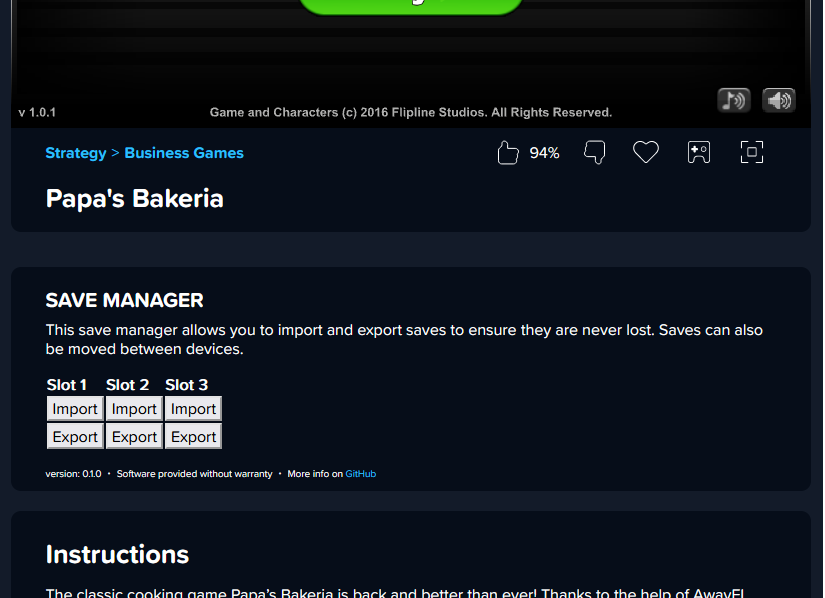
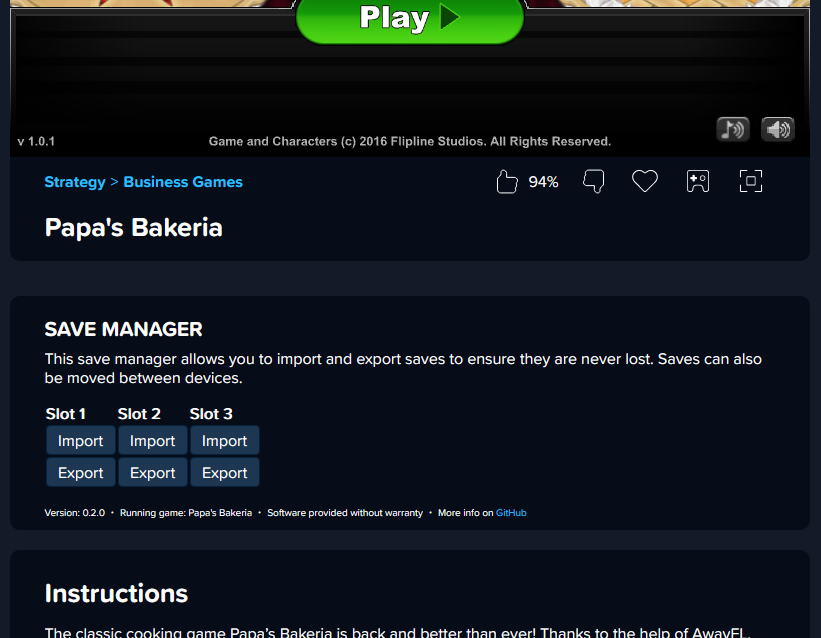
updated readme, image and src. renamed pbsm.js

diff --git a/readme.md b/readme.md
@@ -1,9 +1,13 @@
-# Papa's Bakeria Save Manager
-Papa's Bakeria Save Manager (PBSM) is a userscript which allows you to manage save data for the flash game hosted on [coolmathgames.com](https://www.coolmathgames.com/0-papas-bakeria). Backing up saves allows them to be restored in the event that browser data is accidentally/ unintentionally cleared, or if you wish to play the game on another browser or device.
+# Papa's Save Manager
+Papa's Save Manager (PSM), formally known as PBSM is a userscript which allows you to backup save data for the flash game hosted on [coolmathgames.com](https://www.coolmathgames.com/papas-games). Backing up saves allows them to be restored in the event that browser data is accidentally/ unintentionally cleared, or if you wish to play the game on another browser or device.
+
+The number of supported games is expected to increase with each new version.
 
 ![Preview](docs/images/installed-preview.png)
 
-Game location: https://www.coolmathgames.com/0-papas-bakeria
+## Supported Games
+- [Papa's Bakeria](https://www.coolmathgames.com/0-papas-bakeria)
+- [Papa's Freezeria](https://www.coolmathgames.com/0-papas-freezeria)
 
 ## Features
 - Export save data to file
@@ -11,6 +15,6 @@ Game location: https://www.coolmathgames.com/0-papas-bakeria
 
 ## How to Install
 The script must be installed into a userscript manager such as Violentmonkey or Tampermonkey.
-1. Ensure the userscript manager is installed onto you browser of choice. A comprehensive list of userscript managers can be found on [greasyfork.org](https://greasyfork.org/en/help/installing-user-scripts)
-2. Click [here](https://greasyfork.org/en/scripts/474235-papa-s-bakeria-save-manager) to install the lastest release from greasyfork. Alternatively, you can install the latest pre-release by creating a new script, and pasting in the contents of src/pbsm.js
-3. Navigate to the [game](https://www.coolmathgames.com/0-papas-bakeria) and you should see the save manager below the game's canvas, as illustrated in the above preview.
+1. Ensure the userscript manager is installed onto you browser of choice. A comprehensive list of userscript managers can be found on [greaseyfork.org](https://greasyfork.org/en/help/installing-user-scripts)
+2. Click [here](https://greasyfork.org/en/scripts/474235-papa-s-bakeria-save-manager) to install the lastest release from greaseyfork. Alternatively, you can install the latest pre-release by creating a new script, and pasting in the contents of src/papas-save-manager.js
+3. Navigate to the game (see links above) and you should see the save manager below the game's canvas, as illustrated in the above preview.
